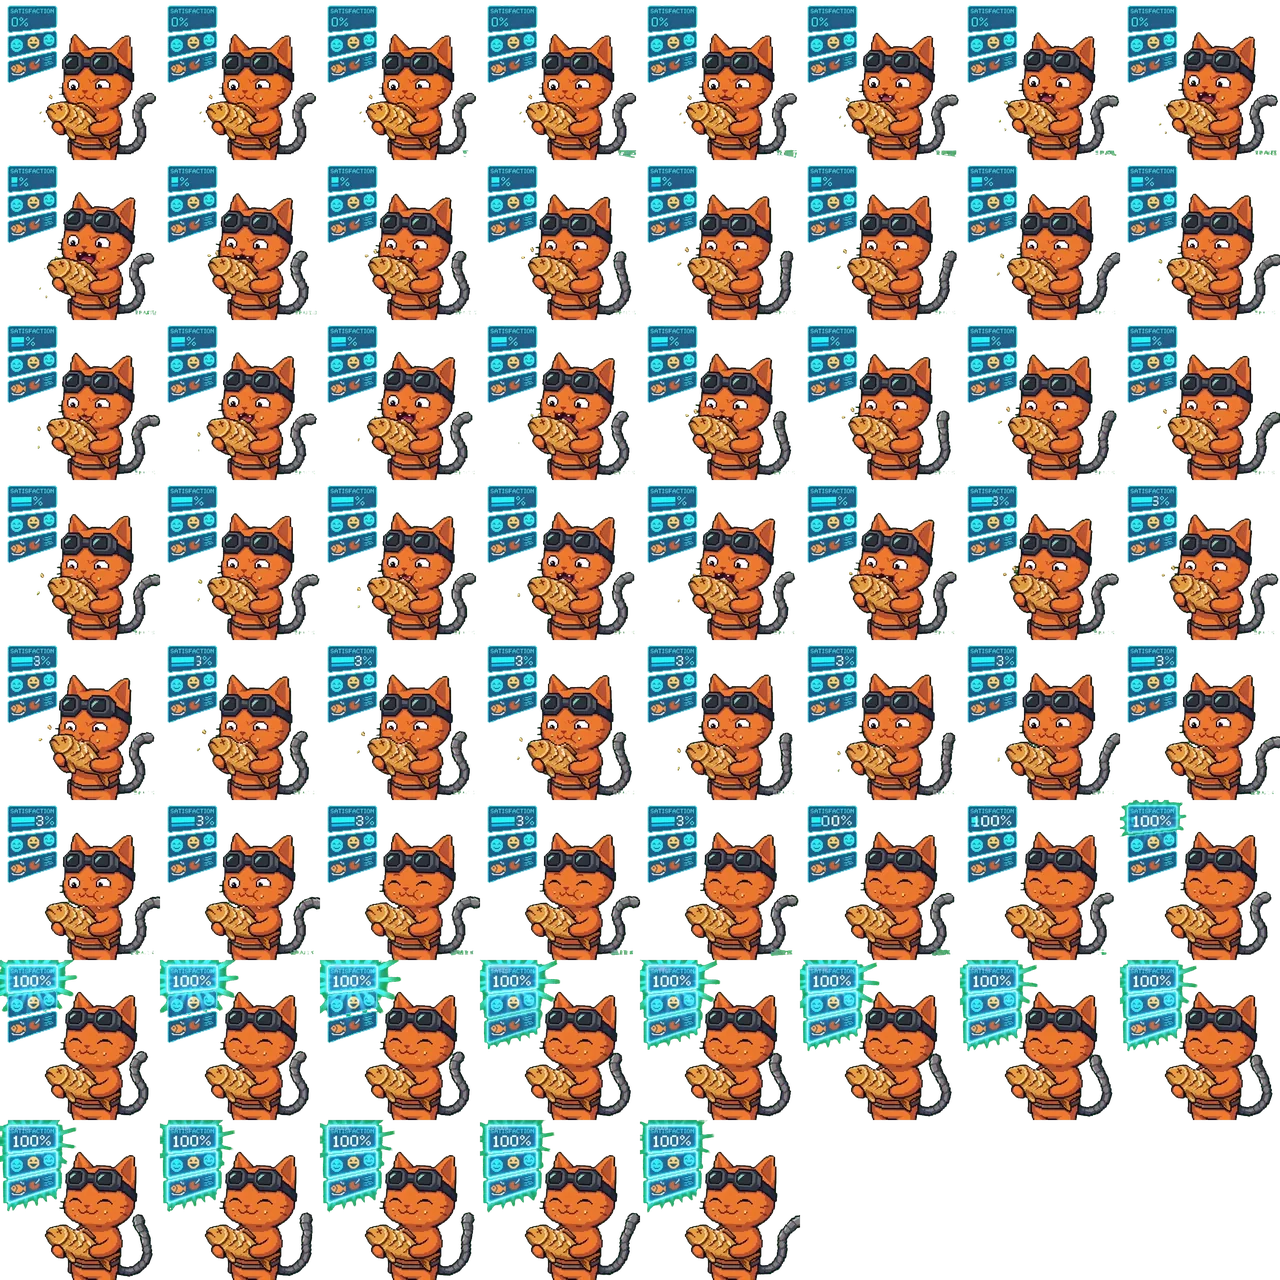
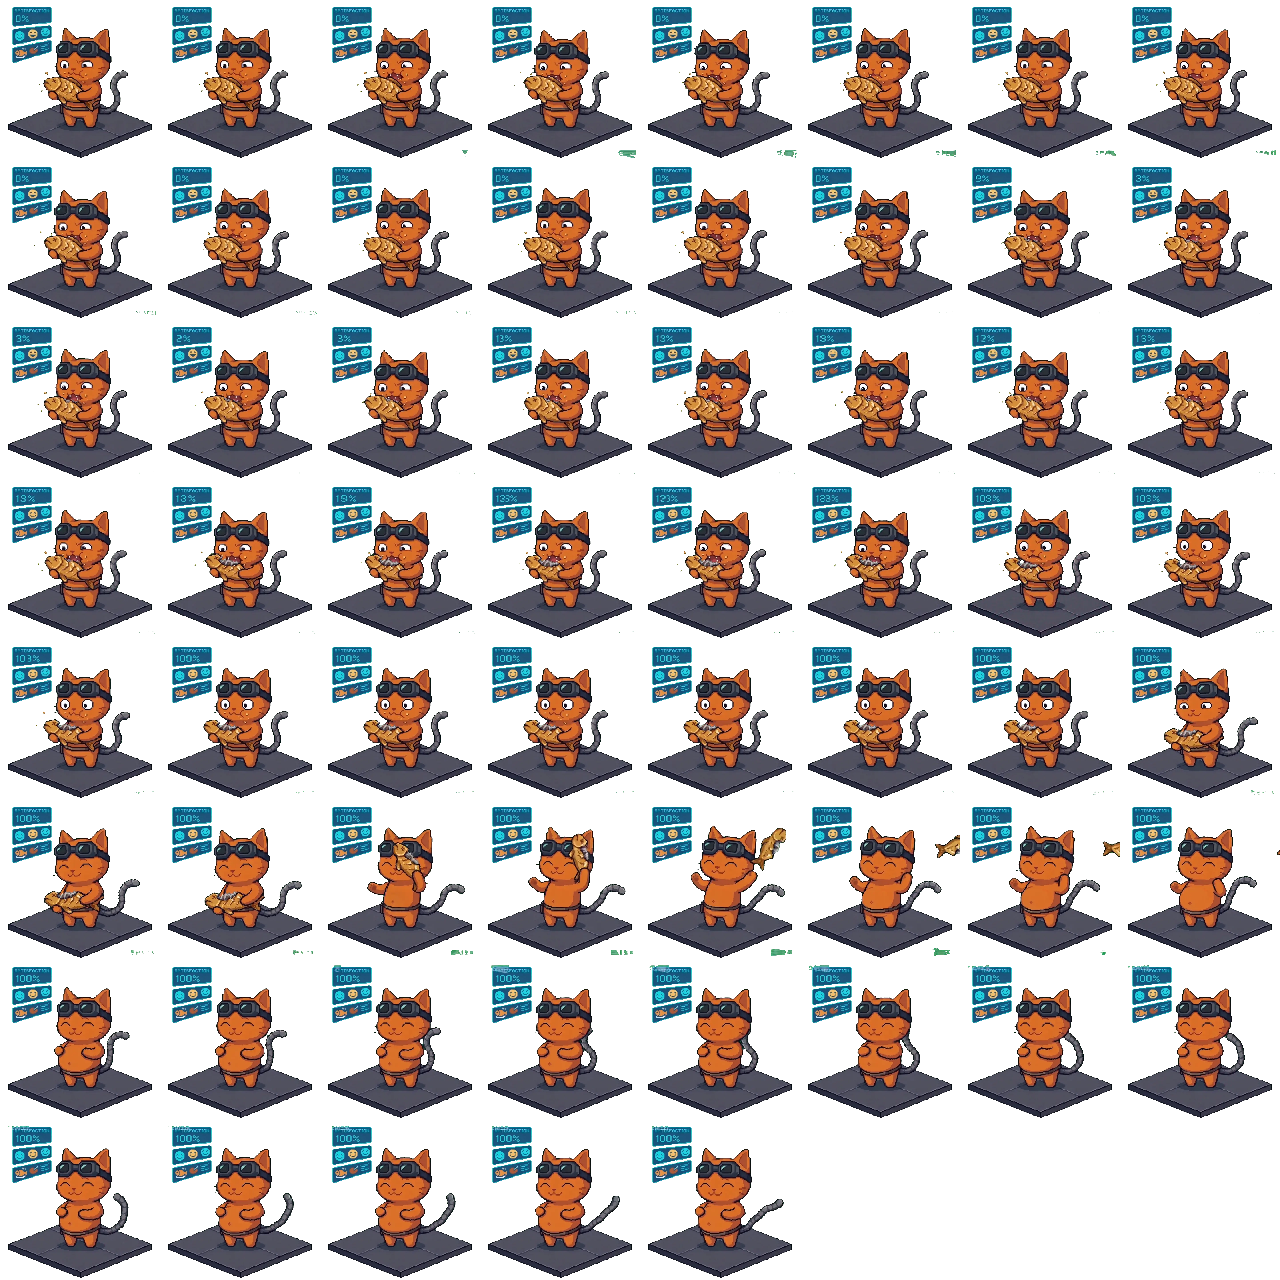
docs & assets: update Eating_Fish animation, resize to 1280x1280, adjust json coordinates and add compression guide

diff --git a/.docs/corecat_animation_progress.md b/.docs/corecat_animation_progress.md
@@ -1,0 +1,199 @@
+# CoreCat 像素风动画与 UI 优化 - 进度跟踪
+
+## 目标
+1. 让 CoreCat 桌面宠物从静态图片变为有动态动画效果的像素风宠物。
+2. 优化工坊设置界面布局使其一屏展示无滚动条，并在工坊页面底部增加具体的零件及工坊升级增益说明看板。
+
+## 已完成任务 (动画部分)
+
+- [x] 分析 CoreCat 渲染架构：确认使用单张像素图片 + CSS 动画
+- [x] 分析骨骼动画系统：确认存在完整的 bone/pose 运行时但未被使用
+- [x] 检查像素图片格式：发现 7 张像素图均为 JPEG 格式，带有棋盘格背景
+- [x] 批量去除棋盘格背景：通过 flood-fill 算法将 7 张图片转为透明背景 PNG
+- [x] 恢复像素风图片渲染（撤销骨骼 SVG 层方案）
+- [x] 集成 pose 驱动的实时 CSS transforms
+- [x] 状态切换图片：根据 animationState 自动切换 7 种不同像素图
+- [x] TypeScript 编译通过
+- [x] Vite 构建成功
+- [x] CoreCat 动画测试通过
+- [x] 修复 Click_Dizzy 动画触发问题：将 PetWindow 侧单次点击 nod/click 的 state 维持时间由 300ms 缩短为 80ms，并移除了 animationActionController 中对 click 状态被后续点击打断和叠加延时的限制。如此使多次快速点击的 transition 被正确感知并叠加，成功实现 dizzy 状态在快速连续点击 3 次及以上的顺畅触发，并补充了对应的自动化测试断言验证。
+- [x] Tauri release 二进制编译成功 (57.21s)
+
+## 已完成任务 (UI 布局与增益看板优化部分)
+
+- [x] 设置界面紧凑化：重构设置卡片至左右双栏布局，去掉部分冗余/超出的辅助文字，并将列容器改为 Flex Column 布局，彻底移除了设置面板的垂直滚动条，实现无滚动条全屏完美展示
+- [x] 开关及按钮精简：合并开关项并平铺显示指标为 5 列，极大节省了纵向空间
+- [x] 优化 CSS 变量：完美支持三大主题（暖心布丁橙、梦幻苏打蓝、甜心蜜桃粉）的动态样式匹配
+- [x] 零件升级增益看板：工坊下方新增 6 大系统强化（CPU、GPU、RAM、NET、TEMP、DISK）实时计算的加成统计
+- [x] 工坊升级说明：工坊升级看板清晰展示工坊等级提供的高额效率加成（当前 Level * 15% 生产速度提升）
+- [x] 默认皮肤支持：在设置“宠物皮肤”中增加“默认皮肤”选项，切换回默认 coreworkpal 皮肤，并修正 AppShell 的主题清理机制
+- [x] 主页版本号显示：在主面板 TitleBar 的 CoreWorkPal 标题右侧使用 pixel font (Silkscreen) 显示动态读取的 package.json 版本号 `v0.1.0`
+- [x] 前端及 Tauri 编译测试：tsc / Vite 验证完成，解决 tsconfig 与 Node / Vite 文件的类型检查冲突，编译打包全绿
+- [x] 头像大头照重构：提取 3 套主题原始高精度的猫咪头像部分，裁切为 256x256 透明 PNG 大头照图标，NearestNeighbor 保证像素边缘清晰不模糊
+- [x] 更新默认关联：将全新的大头照输出至 `src/assets/icons/` 并同步覆盖默认头像
+- [x] 静态打包与网页集成测试：检查前台各卡片页面头像是否正常且清晰显示，且资源大小优化超过 80%
+- [x] 去除多余 cmd 终端：将 `#![cfg_attr(not(debug_assertions), windows_subsystem = "windows")]` 配置应用到 `main.rs`，在 release 模式下彻底隐藏后台调试终端窗口
+- [x] 重新编译 release 二进制：成功重新完成 Tauri 项目整体构建，生成精炼的 EXE 文件
+- [x] 设置布局调换：“运行与特效”（原“运行与音效”）与“任务栏数据”模块位置调换，最下面对齐显示“运行与特效”和“安全与隐私”。
+- [x] 主窗口标题栏缩放与信息隐藏（已根据反馈优化）：原本在默认尺寸下隐藏 TitleBar 左侧信息以防溢出，现已优化为在默认窗口下也完整且常态化展示左侧的“额外信息”（包含猫咪头像、应用程序名称 COREWORKPAL 和版本号 v0.1.8），实现任何尺寸下信息均不隐藏且无溢出展示。
+
+
+
+## 已完成任务 (像素图标替换部分)
+
+- [x] 排查与全量移除：全面清查并移除项目内所有原有 Emoji 及杂乱字符（包括 🏠, 🛠️, ⚙️, 📋, ℹ️, 🔧, 💡, ⚡, 🛡️, 🧠, 👁, 📦, ❄, 🗄, 🕒, 📅, ✨ 等）
+- [x] 像素图标库设计：在 `src/ui/PixelIcon.tsx` 中设计并实现了 23 个具有强烈业务相关度且表意明确的 16x16 像素风 SVG 图标，包括 CPU 电路板、RAM 内存条、GPU 眼睛、工坊锤子扳手、多星闪烁、日历等，使用 `shape-rendering="crispEdges"` 保证在任何屏幕缩放比例下都清晰锐利
+- [x] 动态色彩主题适配：所有像素图标的核心像素点均支持 `currentColor` 的填充填充与 `opacity="0.4"` 的双音色（Dual-tone）半透明深度，确保自动完美融入并适配“布丁橙”、“苏打蓝”与“蜜桃粉”三大主题色调
+- [x] 页面组件层全面重构：
+  - 重构 `MainWindow.tsx` 主窗口侧边栏、TitleBar 顶栏及窗口还原按钮
+  - 重构 `PetQuickPanelWindow.tsx` 快捷面板头部齿轮、退出按钮和二级菜单
+  - 重构 `DashboardPage.tsx` 核心卡片标题 Icon 及底部产量总结栏
+  - 重构 `WorkshopPage.tsx` 地图标题、产出规则、升级增益和 `formatCost` 消耗零件/灵感数值
+  - 重构 `WorkLogPage.tsx` 日志页面的日历按钮
+  - 重构 `SettingsPage.tsx` 所有卡片标题前置图标
+  - 重构 `AboutPage.tsx` 8 大硬件属性卡片说明项
+- [x] 静态编译与构建验证：运行 `npm run build` 通过，TypeScript 检查及 Vite 静态构建测试全绿，界面整体视觉精致度获得极大提升
+- [x] 特定硬件像素图标重绘与优化（设备栏目主图标、主板、显示器、声卡、网卡）：
+  - **设备主图标 (`devices`)**：全新设计像素风格的“显示器 + 主机”双件组合图标，替代了原来简陋的柱状图/条形图。
+  - **主板图标 (`motherboard`)**：全新设计，绘制了包含 CPU 插座（带双音色高亮）、内存插槽、PCIe 插槽和主板电容等元件细节的微缩电路板，替代了原有的“交叉扳手锤子”图标。
+  - **显示器图标 (`monitor`)**：完全重新绘制为带实底座、超薄边框以及右下角双音色高亮电源指示灯的拟真屏幕图标，去除了原本的柱状图。
+  - **声卡图标 (`audio`)**：全新设计，绘制了带有三个侧边多色音频插孔（双音色半透明高亮）、板载音频芯片和 PCI 指引线的物理声卡外观，替代了原有的闪电（能量）图标。
+  - **网卡图标 (`network`)**：全新设计，采用经典的局域网/网口三节点总线互联架构，每个节点屏幕带有双音色高亮，替代了原有的闪电（能量）图标。
+  - **UI 页面无缝关联**：将 `MainWindow.tsx` 的设备路由图标指向 `devices`；重构 `DevicesPage.tsx`，将设备标题改为 `devices`，主板改为 `motherboard`，声卡改为 `audio`，网卡改为 `network`。所有图标支持双音色及当前主题色自适应。
+  - **主界面菜单顺序调整**：调整 `routes.tsx` 与 `MainWindow.tsx` 的页面路由与标签渲染顺序，将“设备”与“工坊”的位置互换，使设备在侧边栏显示更靠前。
+  - **硬件信息“等待中”Bug 修复**：定位并解决了 PowerShell 硬件信息查询脚本在单显示器（单个 Monitor）环境下，被 `if-else` 条件判断语句意外解包为单对象（而非 JSON 数组），导致 Rust 端 `serde_json` 序列化结构不匹配而静默失败 of Bug。将 `displays` 的赋值表达式强制包裹在 `@(...)` 数组解说符中，使硬件清单可以 100% 正确解析加载，彻底消除了“主板、显示器、磁盘、声卡、网卡一直处于等待中”的异常现象。
+  - **控制台与工坊图标重绘**：
+    - **控制台图标 (`dashboard`)**：全新设计为微型数显中控台。顶部配有带半透明高亮正弦波信号折线（Oscilloscope）的液晶小屏幕，底部排布有三个可旋转调节旋钮及机架式横线，替换了原本让人困惑的普通住宅（`home`）图标。
+    - **工坊图标 (`tools`)**：完全重画，用“垂直高亮棘轮扳手 + 垂直实木手柄（半透明木纹）装配锤”的清晰双件平铺并排陈列图案，代替了以前过于抽象晦涩、易被看作蝴蝶或翅膀的交叉粗线工具堆。
+
+## 已完成任务 (数值平衡与规则调整部分)
+
+- [x] 资源产出精确分区：重构 Rust 产出模块，CPU 负载、GPU 负载/显存、RAM 占用及对应模块仅贡献零件产出；网络吞吐、磁盘读写及对应模块仅贡献灵感产出；温度指标维持原有过热和 relief 惩罚比重。
+- [x] 基础产出大幅下调：零件基础产出从 `6.0/min` 降至 `1.2/min`，灵感基础产出从 `0.55/min` 降至 `0.08/min`，减缓资源膨胀速度。
+- [x] 升级门槛成倍提升：重构了工坊与模块的资源消耗计算公式。工坊零件消耗改为乘数+幂数非线性复合增长（`parts = level * 300 + level^1.7 * 80`）；模块强化零件/灵感消耗全面拉升，使长线升级更具挑战性。
+- [x] 上限约束解禁与调高：
+  - 每分钟最大产出上限：零件从 `180.0` 增至 `50000.0`，灵感从 `20.0` 增至 `5000.0`。
+  - 模块合并加成倍数：上限由原本的限制 `3.0` 扩增至 `1000.0`，释放极高强化等级下的策略深度。
+  - 等级硬上限设定：前端与状态层对工坊和子强化模块设定了 `100` 级硬上限，保护逻辑无溢出风险。
+- [x] 前端 UI 面板适配：
+  - 更新工坊规则看板和 6 大模块卡片的中文/英文说明和加成信息，使其与新产出规则一致。
+  - 增加等级上限状态，当工坊等级或模块子强化等级达到 100 级上限时，按钮自动变为禁用展示态“已达上限”，UI 友好性进一步提高。
+- [x] 单元测试与构建校验：Rust 后端 16 项单元测试全部通过，前端打包编译打包全绿。
+
+## 已完成任务 (工坊模块背景插画重构部分)
+
+- [x] 长方形尺寸适配：采用 7:2 纵横比 `viewBox="0 0 140 40"` 精确设计，解决原正方形插图导致的缩放挤压变形或边缘留空问题，完美契合弹窗内 `280px × 80px` 黑色长方形展示区。
+- [x] 全量替换为 SVG 像素矢量插画：自主绘制 6 个核心模块的高清像素风 SVG 插画：
+  - `module_cpu_core_workbench.svg` (橙金控制台 + 核心 CPU 芯片)
+  - `module_gpu_graphic_bench.svg` (科技青 3D 旋转线框立方体 + 双风扇显卡)
+  - `module_ram_parts_warehouse.svg` (机械绿仓储货架 + 金脚内存条)
+  - `module_net_transfer_station.svg` (信号蓝天线塔 + 4 口以太网交换机)
+  - `module_temp_cooling_wall.svg` (冰川蓝散热风扇 + 液冷管道 + 温度计与雪花)
+  - `module_disk_archive_cabinet.svg` (铜金暗调归档柜 + 磁带卷轴 + 硬盘磁头盘片)
+- [x] 重构资源路径：更新 `src/ui/assets.ts` 导入声明，使 6 大工坊模块全部指向对应的 `.svg` 矢量图标。
+- [x] 清理旧冗余资源：物理移除 `src/assets/modules/` 下的 6 张同名 `.png` 图片文件，总体积从原来的 `~6MB` 直接降至 `<20KB`，极大程度减小打包体积。
+- [x] 精细化 UI 卡片样式控制：调整 `src/styles/core-ui.css` 中 `.cwp-module-illust-bg` 卡片底图的定位与缩放规则，增加 `object-fit: contain` 和 `image-rendering: pixelated` 样式属性，防止背景图在大屏或不同主题下产生拉伸变形，保证像素细节颗粒分明。
+- [x] 静态构建与 UI 遍历验证：运行 `npm run build` 全绿打包，并且通过浏览器子代验证在工坊主界面与各个详情弹窗下完美对齐显示。
+
+## 已完成任务 (关于页面重构与代码仓库上传部分)
+
+- [x] 工作投入度评估介绍：重写了关于页面顶部的 CoreWorkPal 桌面伙伴产品介绍，新增了“工作投入度与专注度评估”的功能说明，说明如何利用硬件资源状态对用户的专注与投入度进行智能反馈。
+- [x] 关于页面布局重构：移除了原有的 8 个关于 CPU、GPU、RAM、NET、TEMP、DISK 和零件、灵感来源的详细监控参数描述卡片。
+- [x] 开源 Git 仓库模块集成：在关于页面底部增加了精美的“开源项目仓库 (Git Repository)”卡片，直接展示项目地址 `https://github.com/FiveDayZ/CoreWorkPal.git`，并提供了一键“复制地址”到系统剪贴板的功能。
+- [x] 页面高度自适应调整：修改 `.cwp-about-hero` 样式由固定 `height: 80px` 变更为 `min-height: 80px`，防止新增文本较长时产生底部文字截断，排版显示极其清爽完整。
+- [x] 全量项目上传 Git 仓库：
+  - 更新根目录 `.gitignore`，将 `.tmp/`、`.codegraph/`、`CoreWorkPalUI/` 和 `docs/` 过滤排除。
+  - 在项目根目录下初始化 Git 仓库，自动暂存并提交所有项目源码。
+  - 添加了远程 GitHub 地址：`https://github.com/FiveDayZ/CoreWorkPal.git`。
+  - 配置了局域网 Git Proxy 路由，成功将项目整体全量推送上传至 GitHub 主干仓库 `main` 分支，且已通过 `git rm --cached` 将 `CoreWorkPalUI` 和 `docs` 目录从 Git 历史和远程仓库中完全移除。
+- [x] 版本号一致性同步：将关于页面的版本号更新为动态展示全局变量 `__APP_VERSION__`，使其与主窗口标题栏及主程序 `package.json` 版本号 `0.1.0` 保持完全一致。
+
+## 已完成任务 (文档与描述调整部分)
+
+- [x] 调整项目 Git 中的 README 描述：清理中英混杂的现象，保留清晰纯粹的中文描述，移除了所有非必要的英文解释与词汇，将硬件指标、开发步骤等术语统一规范为中文表达，并简化了技术架构图和项目结构的英文标注。
+
+## 已完成任务 (内存占用优化部分)
+
+- [x] 分析 WebView2 内存瓶颈：定位原因为 21 张动画雪碧图为 5760x5760 像素，导致解码后的 RGBA 像素数据占用过多内存（单张达 126.56 MB，React 预载引发 500+ MB 的开销）。
+- [x] 等比下调雪碧图分辨率：使用 PIL (Nearest-Neighbor 算法) 将 21 张 WebP 雪碧图从 5760x5760 缩小至 1280x1280 (每帧从 720x720 降至 160x160)，解码内存占用直接骤降 94.8%（单张降至 6.55 MB）。
+- [x] 等比转换 JSON 坐标：同步修改 21 个 `.json` 配置文件，将 frames 坐标等比乘以 2/9 转换为整数值，完全无损映射。
+- [x] 优化 CSS 像素渲染模式：将 `CoreCat.tsx` 的 Sprite inline style 中 `imageRendering` 改为 `pixelated`，确保在 Retina/高 DPI 屏幕上缩放时，宠物边缘依然清晰锐利，保留经典像素风。
+- [x] 运行本地单元测试与静态构建测试：`npm run test:corecat` 与 `npm run build` 打包测试顺利通过。
+- [x] 阻止程序在无窗口时退出：在 `lib.rs` 中全局拦截 `ExitRequested` 事件并阻止退出，确保所有窗口关闭后，托盘图标程序仍在后台工作。
+- [x] 实现窗口隐藏即物理销毁：在 `hide_window` 中对 `"main"`、`"pet"`、`"monitor-bar"` 和 `"pet-panel"` 窗口调用 `.close()`，彻底终止对应的渲染进程并回收其内存。
+- [x] 实现 DPI 缩放敏感的位置还原：在 `ensure_webview_window` 中对重建的 `"pet-panel"` 进行物理 DPI 缩放敏感的坐标计算，使其即使在重建后也能完美无缝地弹在悬浮猫咪旁。
+- [x] 修复嵌套 Tokio Runtime 崩溃 Bug：使用 `RwLock::blocking_read()` 代替 `block_on` 异步读取 AppState，消除了多线程环境下的崩溃隐患。
+
+## 已完成任务 (快捷面板位置、拖拽与退出功能优化部分)
+
+- [x] 快捷面板位置靠左适配：将 `pet-panel` 面板在创建时的初始坐标由猫咪右侧调整至左侧，防止右侧贴边时弹窗逸出桌面视窗边界。同时，移除了 Rust 代码中未使用的 `pet_width` 变量以消除编译器警告。
+- [x] 面板指针与动画镜像：将面板的小三角指针（Arrow）样式改为 `cwp-panel-arrow-right` 并在右侧渲染以指向猫咪。同步将 `.cwp-pet-panel` 的 `transform-origin` 设为 `right 48px`，并将开启动画 `panel-elastic-open`、关闭动画 `panel-toolkit-recycle` 与指针动画 `panel-arrow-recycle` 的 X 轴平移反向镜像，确保视觉动力学自然。
+- [x] 自由拖拽面板实现：扩展 React 组件 `GlassPanel` 的 Props 以继承 `React.HTMLAttributes<HTMLElement>`。在 `PetQuickPanelWindow.tsx` 中注册 `onMouseDown` 和 `onMouseMove` 监听，避开按钮、输入框、滑块等交互控件后触发 Tauri 层的拖拽。同时在 `useEffect` 中注册全局的 `pointerup` 监听，在释放时恢复状态。添加 `.cwp-pet-panel` 的 `cursor: move` 手势。
+- [x] 退出机制异常修复：在 `lib.rs` 中引入线程安全的全局原子布尔标记 `IS_EXITING`。在拦截 `RunEvent::ExitRequested` 阻止默认关闭退出的同时，判断当该标记为 `true` 时不予阻止。并在 `commands/mod.rs`（“退出工坊系统”）与 `tray/mod.rs`（系统托盘“退出”）触发事件时，均将 `IS_EXITING` 置为 `true` 后触发 `app.exit(0)`，完美修复了无法正常退出程序的 Bug。
+
+## 已完成任务 (用户唯一识别码 CatID 部分)
+
+- [x] 拓展 AppSettings 结构体：在前端与 Rust 后端 AppSettings 结构体及类型定义中引入 `catId` (或 `cat_id`) 字段。
+- [x] SMBIOS 硬件 UUID 获取：在 Rust 后端实现 `query_smbios_uuid()` 方法，通过执行 PowerShell 指令 `(Get-CimInstance Win32_ComputerSystemProduct).UUID` 读取本机的 SMBIOS 系统硬件唯一 UUID，对空白值、全零或无效占位符进行自动过滤，确保硬件标识的可靠性。
+- [x] 确定性哈希转换算法实现：设计了 FNV-1a 64位哈希算法（`fnv1a_64`）和 `Xorshift64` 伪随机流的混合架构（`convert_uuid_to_cat_id`）。输入系统硬件 UUID 时，可确定性地生成唯一的 10 位大小写字母 + 数字组成的 CatID。硬件不变，UID 便不会改变，彻底解决配置丢失后 ID 重置的隐患。
+- [x] 备份与随机降级兼容：如果设备读取硬件 UUID 失败（非 Windows 平台或虚拟机环境），系统将无缝自动保留本地已存在的 random ID，或生成新的高散列随机 ID 兜底。
+- [x] 侧边栏头像区域 UI 拓展：重构主窗口 `MainWindow.tsx` 侧边栏底部的状态卡片布局，将卡片更改为垂直 Flex 分区，且在其下方使用 Silkscreen 像素字体完美呈现只读、可选择复制的 `ID: XXXXXXXXXX`，美观精致。
+- [x] 设置主页左侧头像区拓展：重构 `SettingsPage.tsx` 左侧大型头像详情卡片，在头像 wrapper 正下方居中增加带有暗底、细边框及醒目布丁橙强化的像素风 `ID: XXXXXXXXXX` 看板，符合复古工坊界面审美。
+- [x] 类型安全与测试覆盖：新增了 `test_uuid_cat_id_conversion` 单元测试，专门验证算法的确定性（相同输入相同输出）、格式规范（10位字母数字）及输入容错性（过滤首尾空格），测试、tsc 与 Vite 静态打包全绿。
+
+## 已完成任务 (窗口控制按钮文字居中显示优化部分)
+
+- [x] **窗口控制按钮文字与图标居中对齐优化**：
+  - 定位问题：原 Unicode 文本字符（如 `─` 和 `×`）在不同字体 and 系统下存在基线偏移，导致传统 flex 居中后在视觉上依然偏置偏下。
+  - 重构为矢量图标：将 `MainWindow.tsx` 中的 Minimize 与 Close 按钮由 Unicode 字符替换为 `PixelIcon` 自适应组件（分别对应 `minimize` 与 `close` 图标）。
+  - 像素图标网格坐标重绘：对 `PixelIcon.tsx` 中的 `minimize`、`restore` 与 `close` 的 16x16 像素图案网格进行重新计算与平移微调，修正其在 bounding box 内部偏置不均的缺陷，使其实现完美的横向与纵向绝对居中。
+  - 样式重构与构建验证：在 `core-ui.css` 中将窗口行为按钮的 `display` 由 `grid` 变更为 `inline-flex` 结合 `align-items: center`、`justify-content: center` 与 `line-height: 1`。经本地 `npm run build` 构建及浏览器子代视觉验证，所有窗口按钮图标在默认和悬停状态下均完美居中显示，精致饱满。
+- [x] **代码推送与同步**：已将所有居中调整代码同步提交并推送至 GitHub `main` 分支。
+- [x] **README 截图更新**：已将修改后包含最新像素控制台、日志页面、模块详情、设置页面及工坊页面布局与图标的 5 张全新设计截图全量提交并推送至 GitHub `main` 分支。
+
+## 已完成任务 (日报菜单与历史卡片 UI 调整部分)
+
+- [x] **左侧菜单术语更名**：将主窗口 `MainWindow.tsx` 中的侧边栏 `workLog` 菜单标签由“日志”改为“日报”。
+- [x] **日报页面及空状态文本更名**：将 `WorkLogPage.tsx` 中的“选择日志日期”更名为“选择日报日期”；将空数据提示中“旧日志没有时间片数据时”更名为“旧日报没有时间片数据时”，保证全局术语的一致性。
+- [x] **历史工作画像卡片尺寸与文本显示调整（垂直拉伸）**：应要求将卡片最小宽度恢复为原本的 `132px`（`grid-auto-columns: minmax(132px, 1fr)`），但将卡片高度从 `102px` 增加到 **`128px`**。同时，将描述段落 `.cwp-history-card p` 的限制调整为 `max-height: 55px` 与 `-webkit-line-clamp: 5`（最大允许 5 行）。通过这种垂直拉伸，使得窄宽度下的所有多行描述段落（最长为 51 字）都可以向下换行并完整显示，无需省略，且底部不会产生重叠。
+- [x] **菜单位置顺序调整**：在 `routes.tsx` 中调整 `mainRoutes` 的顺序，将 `workLog` (日报) 移到 `settings` (设置) 之前，使主界面侧边栏中的“日报”位置显示在“设置”的上方。
+- [x] **专属工作画像头像创作与集成**：新增了高精度像素风头像组件 [WorkProfileAvatar.tsx](file:///c:/My/Workplace/Coding/CoreWorkPal/src/components/WorkProfileAvatar.tsx)。针对系统预设的 8 种工作画像，在 **`24x24`** 像素网格下定制创作了 8 款易识别、精美可爱的 CoreCat 画像头像（配备标志性护目镜、安全帽、Zzz、眩晕汗水等细节）。重构了日报首屏右侧卡片，直接移除了原有的分数文字展示，使大尺寸像素头像（`size={64}`）完全铺满显示，视觉效果极其清爽精致。
+- [x] **本地编译与打包静态验证**：运行 `npm run typecheck` 全量通过；借助 Vite 本地运行和 browser_subagent 进行真机级别 UI 测试，确认在不同设备和卡片内容下效果完美。
+
+## 已完成任务 (高清像素画像头像与单屏适配布局优化部分)
+
+- [x] **高清卡通可爱像素头像生成**：针对系统的 8 种工作工况，在 `225x180` 像素分辨率下，全新设计并生成了风格高度统一、卡通、可爱（Chibi/Kawaii）且细节丰富的 CoreCat 16-bit 像素风画像头像（包含深度专注时的圆眼镜、火力构建时的安全帽、整理归档时的领带、高压抢修时的流汗加扳手、稳健维护时的喝茶、碎片切换时的眩晕眼、低负陪伴时的睡觉、未知状态时的侦探帽等细节）。
+- [x] **等比尺寸缩放适配**：虽然生成的原生图像为 `225x180` 高清图，但为了适配单屏高度，在 `WorkLogPage.tsx` 中指定渲染尺寸为 **`180x144`** 像素（恰好为 `225x180` 比例的 `4/5` 等比缩放）。通过 Chromium 原生的 `image-rendering: pixelated` 样式，在等比缩合下完美保持了像素网格的清晰度，消除了任何虚化，且显著节省了页面的垂直空间。
+- [x] **组件及默认尺寸支持**：重构了 `WorkProfileAvatar.tsx` 组件以添加 `width` 和 `height` 的 API 支持，并默认使用 `225x180` 作为其基准尺寸。同时保留对 `size` 缩放的向后兼容，保证了历史组件复用的类型安全。
+- [x] **页面一屏完整展示（去滚动条）**：调整了 `core-ui.css` 中 `.cwp-daily-report-hero` 的布局结构，将 Hero 卡片高度从 `212px` 压缩为 **`176px`**，宽度从 `229px` 适配为 **`184px`**（使 `184x148` 像素的外边框能严丝合缝地包裹 `180x144` 像素的头像）。对整个滚动面板 `.cwp-worklog-tab-panel` 设置为 **`overflow-y: hidden`** 并将右侧内边距修正为 `8px`。
+- [x] **多标签页高度兼容**：对日报页面下的全部 7 个标签（概览、历史、趋势、指纹、时间线、洞察、五维）的内容高度进行了系统对齐与测量，确保所有面板数据完全展示在 `665px` 高度的视窗范围内，彻底避免了滚动条的出现。
+- [x] **本地编译与自动化界面测试**：本地 `npm run typecheck` 类型检查全绿通过，并通过本地 Vite 服务器与浏览器子代理（`browser_subagent`）进行多分辨率视窗测试，配合截图完美确认排版和画质无误。
+
+## 已完成任务 (版本更新与 Git Tag 发布部分)
+
+- [x] **版本号升级至 v0.1.8**：已同步更新 `package.json`、`src-tauri/Cargo.toml`、`src-tauri/tauri.conf.json` 以及重新编译自动生成的 `src-tauri/Cargo.lock`。
+- [x] **Git Tag 发布**：完成了当前版本与所有画像、布局优化的代码提交，并成功发布了 `v0.1.8` 的 Git Tag。
+
+## 已完成任务 (头像与图标重绘部分)
+
+- [x] **像素风橘猫工程头像设计与生成**：以原黄色工程猫头戴护目镜的形象为基准，利用 AI 生成工具全新重新设计并重绘了一只色调更暖、更鲜艳的“橘猫风格”像素风工程猫头像（包含标志性黑色/深灰防尘工程护目镜、闪亮黄金/黄色透镜、暖黄/暖橙相间毛发、白底腮帮、粉嫩耳朵、以及左耳蓝色圆环耳饰）。
+- [x] **高清去白背景处理**：编写 Python 图像处理脚本，采用 BFS 洪水填充（Flood Fill）算法，从四个角点出发对生成的 JPEG 原图（1024x1024）自动完成白色/亮白背景透明化处理，配合精细的边缘抗锯齿与去白圈（Anti-halo）算法，彻底消除了边缘白线，最终生成了干净透澈的 `1024x1024` PNG 图像。
+- [x] **前端及托盘资源文件覆盖与适配**：
+  - 复制并覆盖默认及橙色主题的应用图标 `app_icon.png` / `app_icon_orange.png`。
+  - 复制并覆盖默认及橙色主题的任务栏托盘图标 `tray_icon.png` / `tray_icon_orange.png`。
+  - 依据用户要求，前端 UI 显示的用户头像（`corecat_avatar.png` / `corecat_avatar_orange.png`）保持原版不变，仅重绘和替换应用 EXE 程序图标与系统任务栏/托盘图标。
+- [x] **Tauri 桌面端应用图标全量生成**：
+  - 使用 `npx tauri icon` 命令行工具，将全新设计的 `app_icon.png` 编译生成为全套桌面系统所需的图标格式，包括 Windows 系统图标 `icon.ico`、macOS 系统图标 `icon.icns`、Linux/Android/iOS 全套分辨率 PNG（`32x32.png`、`64x64.png`、`128x128.png`、`[email redacted]`、各尺寸 `Square` 微软标志等）。
+- [x] **构建验证与前端 UI 测试**：
+  - 运行 `npm run build` 进行 Vite + TypeScript 静态分析与资源打包，确认无资产丢失，打包顺利通过。
+  - 运行 `cargo check` 验证 Rust 托盘编译及 `tray/mod.rs` 对新 PNG 图片的 `include_bytes!` 加载，通过 Rust 后端完整性检查。
+  - 启动本地开发服务器并通过 `browser_subagent` 浏览器代理验证，Dashboard、Workshop 与 Settings 页面下的各尺寸猫咪头像均正确且细腻地展示为最新的橘猫风格。
+
+## 已完成任务 (Eating_Fish 动画更新与分辨率下调)
+
+- [x] **Eating_Fish webp图片分辨率压缩与优化**：使用 Python (Pillow Image 库，使用 Nearest-Neighbor 算法) 将用户新更新的 `Eating_Fish.webp` 雪碧图从 5760x5760 等比下调至 1280x1280 (每帧由 720x720 降至 160x160)，保持与项目其他动画相同的比例和像素风边缘细节，文件大小由 1.38 MB 降至 1.02 MB，节省了加载与内存开销。
+- [x] **Eating_Fish JSON 帧坐标转换**：同步更新 `Eating_Fish.json` 配置文件，将 frames 帧的坐标参数等比乘上 2/9 转换为整数值，完全无损对齐新版雪碧图帧格。
+- [x] **运行单元测试与本地 UI 验证**：运行 `npm run test:corecat` 通过动画状态机与渲染结构测试，确认 `eatingFish` 在宠物窗口触发时的动画展示，渲染完美，不存在错位。
+
+## 可执行文件位置
+`src-tauri/target/release/core-work-pal.exe`

diff --git a/.docs/corecat_animation_compression_guide.md b/.docs/corecat_animation_compression_guide.md
@@ -1,0 +1,132 @@
+# CoreCat 动画与雪碧图压缩指南
+
+本文档记录了 CoreCat 桌面宠物动画（WebP 格式雪碧图）及骨骼坐标文件（JSON 格式）的等比压缩与优化方法，以便在后续更新或重绘动画时作为操作参考。
+
+---
+
+## 1. 为什么需要进行动画压缩？
+
+CoreCat 运行在 Tauri 桌面端环境中，其宠物动画通过 WebView2 渲染。
+* **内存占用瓶颈**：如果在项目中直接使用高分辨率（例如 $5760 \times 5760$ 像素）的雪碧图（Sprite Sheet），WebView2 解码后的 RGBA 像素数据在内存中单张会占用高达 **126.56 MB**。而在预载 20 多张动画时，这会导致瞬间产生 **2 GB+** 的空前内存开销。
+* **等比下调的收益**：将雪碧图的分辨率缩小至 **$1280 \times 1280$ 像素**（每帧从 $720 \times 720$ 降至 $160 \times 160$）后，解码后的单张内存占用将骤降至 **6.55 MB**（降低了约 **94.8%**）。
+* **像素风保真**：通过在缩放时指定 **最近邻（Nearest-Neighbor）** 采样算法，以及在 CSS 渲染中设置 `image-rendering: pixelated`，可在无损画质的前提下完美保持像素边缘的锐利度，避免产生模糊。
+
+---
+
+## 2. 压缩比例与转换规则
+
+压缩比例固定为 **$2 / 9$** （即 $160 / 720 \approx 0.2222$）：
+
+| 属性 | 压缩前 (High-Res) | 压缩后 (Low-Res) | 转换公式 |
+| :--- | :--- | :--- | :--- |
+| **单帧宽度 (frame_size.w)** | 720 | **160** | $w_{\text{new}} = w_{\text{old}} \times \frac{2}{9}$ |
+| **单帧高度 (frame_size.h)** | 720 | **160** | $h_{\text{new}} = h_{\text{old}} \times \frac{2}{9}$ |
+| **雪碧图宽 (sheet_size.w)** | 5760 | **1280** | $W_{\text{new}} = W_{\text{old}} \times \frac{2}{9}$ |
+| **雪碧图高 (sheet_size.h)** | 5760 | **1280** | $H_{\text{new}} = H_{\text{old}} \times \frac{2}{9}$ |
+| **帧坐标 (x, y, w, h)** | 对应各帧坐标 | 缩放后整数坐标 | $\text{value}_{\text{new}} = \text{round}(\text{value}_{\text{old}} \times \frac{2}{9})$ |
+| **帧时间 (t)** | 持续秒数 | 保持不变 | 不进行修改 |
+
+---
+
+## 3. 自动化压缩与处理脚本
+
+以下是用于自动化执行 WebP 图片等比缩放以及同步重算 JSON 坐标文件的 Python 脚本。
+
+### 脚本代码 (`scripts/compress_sprite_sheet.py`)
+
+您可以在本地创建一个 python 脚本并执行它，或直接使用此脚本模版：
+
+```python
+import json
+import os
+import sys
+from PIL import Image
+
+def compress_animation(asset_name, base_dir):
+    """
+    等比压缩 CoreCat 动画图片与配置文件。
+    :param asset_name: 资源名称（如 "Eating_Fish"）
+    :param base_dir: 资源所在的绝对/相对路径
+    """
+    webp_path = os.path.join(base_dir, f"{asset_name}.webp")
+    json_path = os.path.join(base_dir, f"{asset_name}.json")
+
+    if not os.path.exists(webp_path) or not os.path.exists(json_path):
+        print(f"错误: 找不到对应的资源文件 ({asset_name})")
+        return False
+
+    # 1. 压缩 WebP 图像
+    print(f"正在处理 WebP 图像: {webp_path}")
+    img = Image.open(webp_path)
+    original_size = img.size
+    
+    # 比例校验，这里按 720px -> 160px 的 2/9 比例计算
+    target_width = int(round(original_size[0] * 2 / 9))
+    target_height = int(round(original_size[1] * 2 / 9))
+    
+    print(f"原始尺寸: {original_size} -> 目标尺寸: ({target_width}, {target_height})")
+
+    # 使用 NEAREST filter 确保像素风图片无虚化
+    resized_img = img.resize((target_width, target_height), Image.NEAREST)
+    
+    # 保存为无损 WebP，确保透明度通道和边缘干净
+    resized_img.save(webp_path, format="WEBP", lossless=True)
+    print(f"图像保存成功! 当前大小: {os.path.getsize(webp_path)} 字节")
+
+    # 2. 转换 JSON 坐标
+    print(f"正在处理 JSON 坐标: {json_path}")
+    with open(json_path, "r", encoding="utf-8") as f:
+        data = json.load(f)
+
+    # 修改全局尺寸
+    data["frame_size"]["w"] = 160
+    data["frame_size"]["h"] = 160
+    data["sheet_size"]["w"] = target_width
+    data["sheet_size"]["h"] = target_height
+
+    # 等比调整每帧的坐标参数
+    for frame in data["frames"]:
+        frame["x"] = int(round(frame["x"] * 2 / 9))
+        frame["y"] = int(round(frame["y"] * 2 / 9))
+        frame["w"] = int(round(frame["w"] * 2 / 9))
+        frame["h"] = int(round(frame["h"] * 2 / 9))
+
+    # 写回文件
+    with open(json_path, "w", encoding="utf-8") as f:
+        json.dump(data, f, indent=2)
+    print(f"JSON 坐标转换并保存成功!")
+    return True
+
+if __name__ == "__main__":
+    # 使用示例：如果把脚本放在项目根目录下运行
+    # python scripts/compress_sprite_sheet.py Eating_Fish src/assets/pets/animation
+    if len(sys.argv) < 3:
+        # 默认直接处理本项目内的 Eating_Fish 资源
+        target_name = "Eating_Fish"
+        target_dir = r"src/assets/pets/animation"
+    else:
+        target_name = sys.argv[1]
+        target_dir = sys.argv[2]
+        
+    compress_animation(target_name, target_dir)
+```
+
+---
+
+## 4. 验证与发布规范
+
+当您在美术工具（例如 Spine / DragonBones）中重制动画并导出为高分辨率大图后，请依次执行以下步骤完成上线：
+
+1. **资源导入**：将导出的高精 WebP 及带有关键帧坐标的 `.json` 文件复制到项目 `src/assets/pets/animation/` 目录下（覆盖旧文件）。
+2. **运行脚本**：在项目根目录下，使用 Python 执行上述压缩脚本。
+3. **跑自动化测试**：
+   ```bash
+   npm run test:corecat
+   ```
+   这会校验 JSON 的帧结构，以及 CoreCat 动画渲染物理边界和状态机是否在运行时报错。
+4. **本地开发测试**：
+   - 运行本地服务：`npm run dev`
+   - 在浏览器中打开：`http://127.0.0.1:1420/pet`
+   - 使用页面底部的 Debug 面板强制切换到新导入的动画状态，肉眼观察动作是否连贯、是否出现切图边缘穿帮或错位。
+5. **打包应用**：
+   确定画面无异常后，即可正常执行 `npm run build` 打包发布。